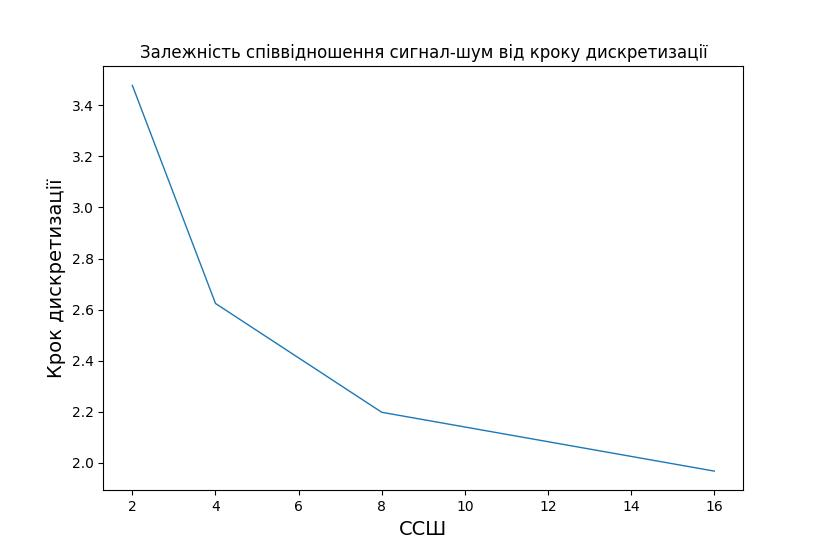
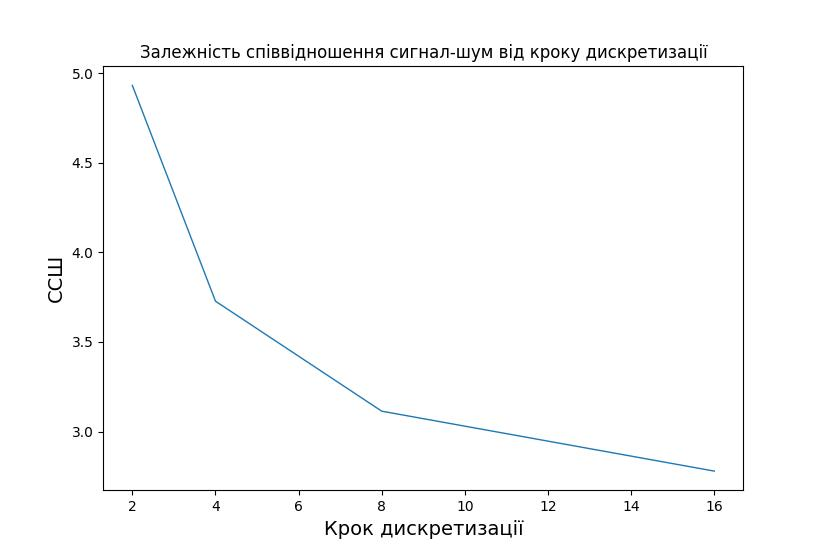
Signal processing, 3

diff --git a/SignalProcessing/SignalProcessing.py b/SignalProcessing/SignalProcessing.py
@@ -37,96 +37,117 @@ y = scipy.signal.sosfiltfilt(parameters_filter, y)
 # plt.show()
 # figure.savefig("specter.jpeg")
 
-discrete_signals = []
-discrete_spectrums = []
-f_r_parameters = []
-var_signal_varriance = []
-varriences = []
-corrs = []
-for Dt in [2, 4, 8, 16]:
-    discrete_signal = numpy.zeros(n)
-    for i in range(0, round(n/Dt)):
-        discrete_signal[i*Dt]=y[i*Dt]
-    discrete_signals.append(list(discrete_signal))
-    discrete_spectrum = scipy.fft.fft(discrete_signal)
-    symmetric_spectrum = numpy.abs(scipy.fft.fftshift(discrete_spectrum))
-    discrete_spectrums.append(list(symmetric_spectrum))
-    discrete_counts = scipy.fft.fftfreq(n, 1/n)
-    final_discrete_counts = scipy.fft.fftshift(discrete_counts)
-    w = F_filter / (Fs / 2)
-    r_parameter = scipy.signal.butter(3, w, 'low', output='sos')
-    f_r_parameter = scipy.signal.sosfiltfilt(r_parameter, discrete_signal)
-    f_r_parameters.append(list(f_r_parameter))
-    E1 = f_r_parameters - y
-    variance_E = numpy.var(E1)
-    varriences.append(variance_E)
-    print(varriences)
-    corr = numpy.var(y)/numpy.var(E1)
-    corrs.append(corr)
-
-x = [2, 4, 8, 16]
-fig, ax = plt.subplots(figsize=(21*cm, 14*cm))
-ax.plot(x, corrs, linewidth = 1)
-ax.set_xlabel("Крок дискретизації", fontsize=14)
-ax.set_ylabel("ССШ", fontsize=14)
-plt.title("Залежність співвідношення сигнал-шум від кроку дискретизації")
-plt.show()
-fig.savefig("correlation2.jpeg")
-
-
-
-
-# fig, ax = plt.subplots(2, 2, figsize=(21*cm, 14*cm))
-# s = 0
-# for i in range(0, 2):
-#     for j in range(0, 2):
-#         ax[i][j].plot(x, f_r_parameters[s], linewidth=1)
-#         s+=1
-# fig.supxlabel("Амплітуда сигналу", fontsize = 14)
-# fig.supylabel("Час(секунди)", fontsize = 14)
-# fig.suptitle("Сигнал з кроком дискретизації Dt=(2,4,8,16)")
-# fig.set_dpi(600)
-# fig.savefig("return_discrete.jpeg")
-# fig.show()
-
-
-# figure, ax = plt.subplots(2, 2, figsize=(21*cm, 14*cm))
-# ax.plot(final_discrete_counts,symmetric_spectrum, linewidth = 1)
-# ax.set_xlabel("Частота (Гц)", fontsize=14)
-# ax.set_ylabel("Амплітуда спектру", fontsize=14)
-# plt.title("Сигнал з максимальною частотою F_max=23")
+# discrete_signals = []
+# discrete_spectrums = []
+# f_r_parameters = []
+# var_signal_varriance = []
+# varriences = []
+# corrs = []
+# for Dt in [2, 4, 8, 16]:
+#     discrete_signal = numpy.zeros(n)
+#     for i in range(0, round(n/Dt)):
+#         discrete_signal[i*Dt]=y[i*Dt]
+#     discrete_signals.append(list(discrete_signal))
+#     discrete_spectrum = scipy.fft.fft(discrete_signal)
+#     symmetric_spectrum = numpy.abs(scipy.fft.fftshift(discrete_spectrum))
+#     discrete_spectrums.append(list(symmetric_spectrum))
+#     discrete_counts = scipy.fft.fftfreq(n, 1/n)
+#     final_discrete_counts = scipy.fft.fftshift(discrete_counts)
+#     w = F_filter / (Fs / 2)
+#     r_parameter = scipy.signal.butter(3, w, 'low', output='sos')
+#     f_r_parameter = scipy.signal.sosfiltfilt(r_parameter, discrete_signal)
+#     f_r_parameters.append(list(f_r_parameter))
+#     E1 = f_r_parameters - y
+#     variance_E = numpy.var(E1)
+#     varriences.append(variance_E)
+#     print(varriences)
+#     corr = numpy.var(y)/numpy.var(E1)
+#     corrs.append(corr)
+#
+# x = [2, 4, 8, 16]
+# fig, ax = plt.subplots(figsize=(21*cm, 14*cm))
+# ax.plot(x, corrs, linewidth = 1)
+# ax.set_xlabel("Крок дискретизації", fontsize=14)
+# ax.set_ylabel("ССШ", fontsize=14)
+# plt.title("Залежність співвідношення сигнал-шум від кроку дискретизації")
 # plt.show()
-# figure.savefig("specter.jpeg")
+# fig.savefig("correlation2.jpeg")
 
-# fig, ax = plt.subplots(2, 2, figsize=(21*cm, 14*cm))
-# s = 0
+
+q_signals_array = [] #збереження квантованих сигналів
+varrience_array = [] #збереження значень дисперсії
+q_levels = []
+correlation_array = [] #значення співвідношення сигнал-шум
+for M in [4, 16, 64, 256]:
+    bits_array = [] #змінна для збереження бітів
+    signal_from_bits_array = [] #змінна для збереження сигналу сформованого з бітів
+    delta = (numpy.max(y) - numpy.min(y))/(M-1) #крок квантування
+    quantize_signal = delta * numpy.round(y/delta) #отриманий цифровий сигнал
+    q_signals_array.append(quantize_signal)
+    quantize_levels = numpy.arange(numpy.min(quantize_signal), numpy.max(quantize_signal)+1, delta) #список дискретних відліків амплітуди сигналу з кроком delta
+    q_levels.append(quantize_levels)
+    quantize_bit = numpy.arange(0, M) #діапазон генерації
+    quantize_bit = [format(bits_array, '0' + str(int(numpy.log(M)/numpy.log(2))) + 'b') for bits_array in quantize_bit] #
+    quantize_table = numpy.c_[quantize_levels[:M], quantize_bit[:M]]
+    # fig,ax = plt.subplots(figsize=(14/2.54, M/2.54))
+    # table = ax.table(cellText=quantize_table, colLabels=["Значення сигналу", "Кодова послідовність"], loc='center')
+    # table.set_fontsize(14)
+    # table.scale(1,2)
+    # ax.axis('off')
+    # fig.savefig('Table', dpi=600)
+    # plt.plot(varrience_array, len(q_levels))
+    # plt.show()
+    # E2 = quantize_signal - y
+    # varr = numpy.var(E2)
+    # varrience_array.append(varr)
+    # corre = numpy.var(y)/numpy.var(E2)
+    # correlation_array.append(corre)
+    # fig, axes = plt.subplots(2, 2, figsize=(21*cm, 14*cm))
+#     axes.plot(M, )
+#
+# M_list = [4, 16, 64, 256]
+# M1 = 0
+# figure, ax = plt.subplots(2, 2, figsize=(21/2.54, 14/2.54))
 # for i in range(0, 2):
 #     for j in range(0, 2):
-#         ax[i][j].plot(final_discrete_counts, discrete_spectrums[s], linewidth=1)
-#         s+=1
-# fig.supxlabel("Амплітуда сигналу", fontsize = 14)
-# fig.supylabel("Час(секунди)", fontsize = 14)
-# fig.suptitle("Сигнал з кроком дискретизації Dt=(2,4,8,16)")
-# fig.set_dpi(600)
-# fig.savefig("WithDt_specter.png")
-# fig.show()
+#         ax[i][j].plot(numpy.arange(500) / 1000, q_signals_array[M1], linewidth=1)
+#         M1+=1
+# figure.suptitle("Цифрові сигнали з рівнями квантування (4, 16, 64, 256)")
+# figure.supxlabel("Час(секунди)")
+# figure.supylabel("Амплітуда сигналу")
+# figure.show()
+# figure.savefig("signals_with_levels")
 
 
-# fig, ax = plt.subplots(2, 2, figsize=(21*cm, 14*cm))
-# s = 0
-# for i in range(0, 2):
-#     for j in range(0, 2):
-#         ax[i][j].plot(x, discrete_spectrums[s], linewidth=1)
-#         s+=1
-# fig.supxlabel("Амплітуда сигналу", fontsize = 14)
-# fig.supylabel("Час(секунди)", fontsize = 14)
-# fig.suptitle("Сигнал з кроком дискретизації Dt=(2,4,8,16)")
-# fig.set_dpi(600)
-# # fig.savefig("WithDt.png")
-# fig.show()
 
-# ax.plot(x, discrete_signals, linewidth = 1)
-# ax.set_xlabel("Час(секунди)", fontsize=14)
-# ax.set_ylabel("Амплітуда сигналу", fontsize=14)
-# plt.title("Сигнал з максимальною частотою F_max=23")
+
+
+# M = [4, 16, 64, 256]
+# fig, ax = plt.subplots(figsize=(21*cm, 14*cm))
+# ax.plot(M, varrience_array, linewidth = 1)
+# ax.set_xlabel("Кількість рівнів квантування", fontsize=14)
+# ax.set_ylabel("Дисперсія", fontsize=14)
+# plt.title("Залежність дисперсії від кількості рівнів квантування")
 # plt.show()
+# fig.savefig("var_lvl.jpeg")
+
+# M = [4, 16, 64, 256]
+# fig, ax = plt.subplots(figsize=(21*cm, 14*cm))
+# ax.plot(M, correlation_array, linewidth = 1)
+# ax.set_xlabel("Кількість рівнів квантування", fontsize=14)
+# ax.set_ylabel("ССШ", fontsize=14)
+# plt.title("Залежність співвідношення сигнал-шум від кількості рівнів квантування")
+# plt.show()
+# fig.savefig("correlation42.jpeg")
+
+
+# for signal_value in quantize_signal:
+#     for index, value, in enumerate(quantize_levels[:M]):
+#         if numpy.round(numpy.abs(signal_value - value), 0) == 0:
+#             bits_array.append(quantize_bit[index])
+#             break
+# bits_array = [int(item) for item in list(''.join(bits_array))]
+# fig, ax = plt.subplots(figsize=(21/2.54, 14/2.54))
+# x = numpy.arange(0, len(bits_array))
+# ax.step(x, bits_array, linewidth=0.1)
+# fig.savefig('Sequence')
